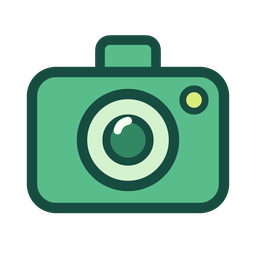
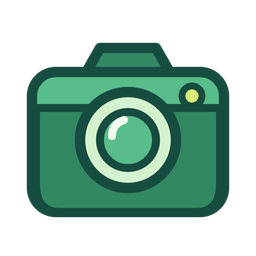
B04: add material cues to sticker and camera
Replace the generic camera face and unmodified sticker reuse with folded material, lens and badge.

Changed region(s): [[0.0938, 0.3125, 0.9062, 0.875], [0.3125, 0.125, 0.6875, 0.2812]]

diff --git a/Beta/Vorschau.html b/Beta/Vorschau.html
@@ -1,4 +1,4 @@
 <!doctype html><html lang="de"><meta charset="utf-8"><meta name="viewport" content="width=device-width,initial-scale=1"><title>Blattwerk — Beta-Icons</title><style>
 *{box-sizing:border-box}body{margin:0;background:#f5f4eb;color:#153e32;font:15px/1.45 system-ui,sans-serif}main{margin:auto;max-width:1260px;padding:32px clamp(19px,5vw,74px) 70px}.over,.index,small,footer,.bar label{font:600 11px/1.5 ui-monospace,monospace;letter-spacing:.09em;text-transform:uppercase}header{border-top:3px solid #234e3b;border-bottom:1px solid #adb5a4;padding:14px 0 26px}.over,footer,.bar{display:flex;align-items:center;justify-content:space-between;gap:12px}.hero{display:flex;justify-content:space-between;align-items:center;gap:24px;margin-top:32px}h1{font:normal clamp(54px,8vw,104px)/.96 Georgia,serif;letter-spacing:-.065em;margin:5px 0 16px}p{margin:0;color:#4f6455}.sample{display:flex;align-items:center;justify-content:center;gap:3px;background:#dce8cf;padding:12px 18px;border-radius:16px;transform:rotate(-3deg)}.sample img{width:clamp(42px,6vw,86px);height:auto}.bar{justify-content:flex-start;flex-wrap:wrap;margin:22px 0 30px}.bar button{border:1px solid #a5b5a4;background:transparent;border-radius:30px;padding:7px 14px;color:inherit;font:inherit;cursor:pointer}.bar button[aria-pressed=true]{background:#204d3a;color:#fff;border-color:#204d3a}h2{font:normal 30px Georgia,serif;margin:0;letter-spacing:-.03em}.sectionhead{display:flex;align-items:center;gap:13px;margin:34px 0 14px}.index{background:#dce7d0;padding:4px 8px;border-radius:5px}.total{margin-left:auto;color:#536855}.grid{display:grid;grid-template-columns:repeat(auto-fill,minmax(148px,1fr));gap:9px}.tile{background:#fffef8;border:1px solid #d4d9ca;border-radius:10px;overflow:hidden}.well{height:92px;display:flex;align-items:center;justify-content:center;gap:7px}.well img{width:38px;height:38px}.well img:only-child{width:53px;height:53px}.well .white{background:#284438;border-radius:7px;padding:3px}.caption{border-top:1px solid #e4e7db;padding:8px 10px;font-size:13px;font-weight:580}footer{border-top:1px solid #aab7a3;margin-top:42px;padding-top:13px}.total{font-size:10px}.banner{margin:22px 0 0;border-left:4px solid #b4462f;background:#f7e6df;padding:12px 16px;border-radius:0 10px 10px 0;font-size:14px;line-height:1.5}.banner:empty{display:none;margin:0}.banner b{letter-spacing:.04em;text-transform:uppercase;font:700 11px/1.5 ui-monospace,monospace}@media(max-width:600px){.sample img:not(:first-child){display:none}.sample{padding:10px}.grid{grid-template-columns:repeat(2,minmax(0,1fr))}.well{gap:3px}.well img{width:32px;height:32px}.bar{gap:5px}.bar button{font-size:13px}.total{display:none}} </style>
 <main><header><div class="over"><span>BW &nbsp; / &nbsp; Digitales Schreibatelier</span><span>Beta</span></div><div class="hero"><div><h1>Blattwerk&nbsp;Beta.</h1><p>Neue Icons in Arbeit — noch nicht freigegeben</p></div><div class="sample" id="sample" aria-hidden="true"></div></div></header><div class="banner" id="banner"><b>Beta</b> — diese Motive sind noch nicht freigegeben und dürfen nicht in <code>Normal/</code> auftauchen. Übernahme nur auf ausdrückliche Anweisung (siehe <code>AGENTS.md</code>).</div><div class="bar" id="bar"><label>Ansicht</label></div><div id="catalog"></div><footer><span>15 Motive &nbsp; / &nbsp; 15 Varianten</span><span>Blattwerk · Beta</span></footer></main>
[2 lines of base64/hex data omitted]

diff --git a/generate.py b/generate.py
@@ -196,13 +196,17 @@ def bicon(k):
         else:
             pfeil = line('M17 51h25','I',3)+p('M51 51l-9-6v12Z','B')
         return quelle+ziel+pfeil
-    if k=='objekt-erstellen':  # Sticker aus G01, verkleinert, mit Plus-Badge
-        return (group(icon('sticker'),'translate(4.8 4.64) scale(0.84)')
-                +c(50,50,9,'B','I',2.4)+line('M45 50h10m-5-5v10','H',2.8))
-    if k=='bildschirmfoto':  # Kamera
-        return (r(25,10,14,10,2.5,'B','I',2.4)+r(8,18,48,34,6,'B')
-                +c(32,35,11.5,'L','I',2.6)+c(32,35,5.4,'M','I',2)
-                +p('M29.4 32.6q.5-2 2.6-2.4','none','H',2)+c(48.5,25,2.8,'A','I',1.7))
+    if k=='objekt-erstellen':
+        return (p('M10 22q0-7 7-8l22-4q8-1 9 7l2 15q0 4-3 7L37 49q-2 2-6 2l-14 1q-6 0-7-7Z','B')
+                +p('M35 50q4-6 3-12 6 2 11-2Z','L')
+                +c(22,27,2.2,'F','none')+c(36,25,2.2,'F','none')
+                +line('M23 34q6 5 12-2','F',2.4)+line('M16 21l6-1','H',2)
+                +c(49,49,9,'B')+line('M44 49h10m-5-5v10','H',2.7))
+    if k=='bildschirmfoto':
+        return (p('M21 19l4-7h14l4 7Z','M')+r(8,18,48,35,6,'B')
+                +p('M9 27h46v19q0 7-6 7H15q-6 0-6-7Z','M','I',2)
+                +c(32,35,12,'L')+c(32,35,7,'B','I',2)
+                +line('M28 34q0-3 3-4','H',2)+c(48,24,2.5,'A','I',1.7))
     raise KeyError(k)
 
 # ── Gruppentabellen: (Gruppe, [(slug, Anzeigename, Palette, Stern-Code)]) ───
